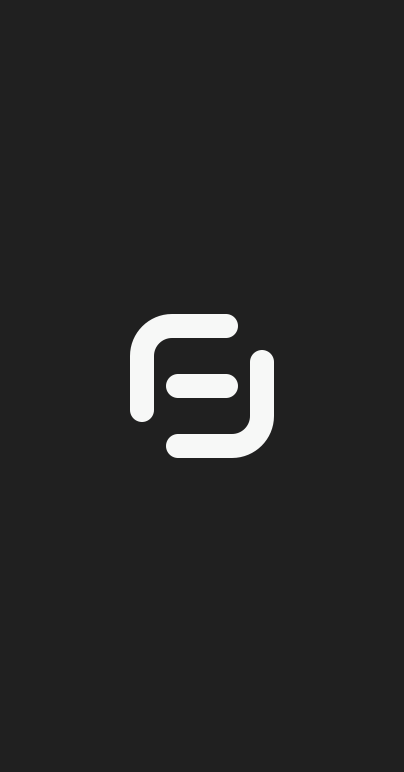
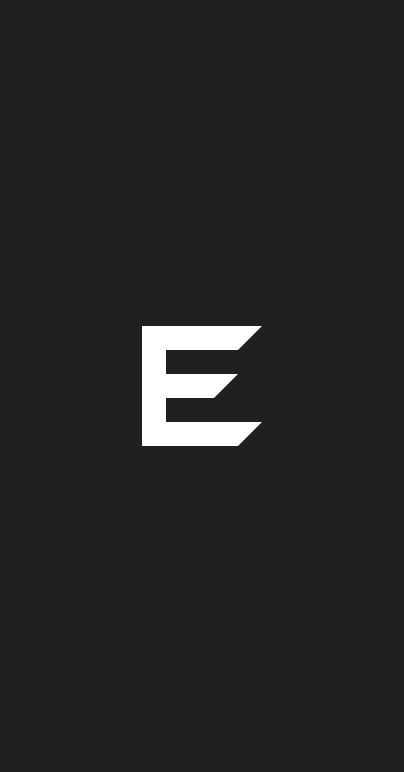
style: replace ETL branding with a monochrome mark

Changed region(s): [[0.297, 0.4041, 0.6832, 0.5907]]

diff --git a/native/windows/desktop_ui.cpp b/native/windows/desktop_ui.cpp
@@ -96,18 +96,10 @@ bool button(const char* label, ImVec2 size, Icon symbol, bool primary = false, b
 void drawBrand(ImDrawList* draw, ImVec2 origin, float size, ImU32 color) {
   const float scale = size / 64.f;
   auto point = [&](float x, float y) { return ImVec2{origin.x + x * scale, origin.y + y * scale}; };
-  const float stroke = 8 * scale;
-  draw->AddLine(point(40, 12), point(22, 12), color, stroke);
-  draw->PathArcTo(point(22, 22), 10 * scale, 3.14159265f, 4.71238898f, 12);
-  draw->PathStroke(color, 0, stroke);
-  draw->AddLine(point(12, 22), point(12, 40), color, stroke);
-  draw->AddLine(point(24, 52), point(42, 52), color, stroke);
-  draw->PathArcTo(point(42, 42), 10 * scale, 0, 1.57079633f, 12);
-  draw->PathStroke(color, 0, stroke);
-  draw->AddLine(point(52, 42), point(52, 24), color, stroke);
-  draw->AddLine(point(24, 32), point(40, 32), color, stroke);
-  for (const ImVec2 endpoint : {point(40, 12), point(12, 40), point(24, 52), point(52, 24), point(24, 32), point(40, 32)})
-    draw->AddCircleFilled(endpoint, stroke / 2, color, 12);
+  const ImVec2 outline[]{point(12, 12), point(52, 12), point(44, 20), point(20, 20),
+    point(20, 28), point(44, 28), point(36, 36), point(20, 36), point(20, 44),
+    point(52, 44), point(44, 52), point(12, 52)};
+  draw->AddConcavePolyFilled(outline, static_cast<int>(std::size(outline)), color);
 }
 
 void input(const char* label, const char* hint, char* value, size_t size, bool secret = false) {

diff --git a/assets/brand/README.md b/assets/brand/README.md
@@ -1,14 +1,15 @@
 # ETL logo
 
-The symbol uses two opposing rounded corners and a central connection. Use the
-black logo on light backgrounds and the white logo on dark backgrounds. The
+The symbol is a solid E with three diagonal terminals. Its simple silhouette
+works in black or white and remains legible at tray-icon sizes. Use black on
+light backgrounds and white on dark backgrounds. The
 wordmark uses outlined Inter Semi Bold, so SVGs need no installed font.
 
 `etl-mark.svg` inherits `currentColor`. `etl-icon.svg` adds a dark tile and a subtle
 border so the application icon remains visible on either background. `etl.ico`
 contains 16, 20, 24, 32, 40, 48, 64, 128 and 256 pixel images.
 
-Editable source: [Figma](https://www.figma.com/design/BQNC74KJoWRbj8JC0fIpOl?node-id=20-13).
+The SVGs are the editable sources.
 Inter's [license](../../native/windows/assets/LICENSE-Inter.txt) applies to its
 letterforms.
 
